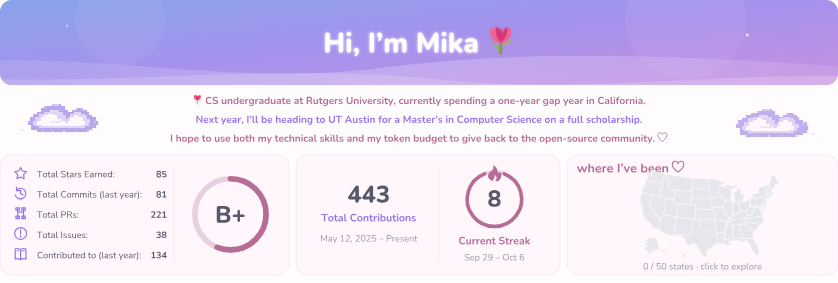
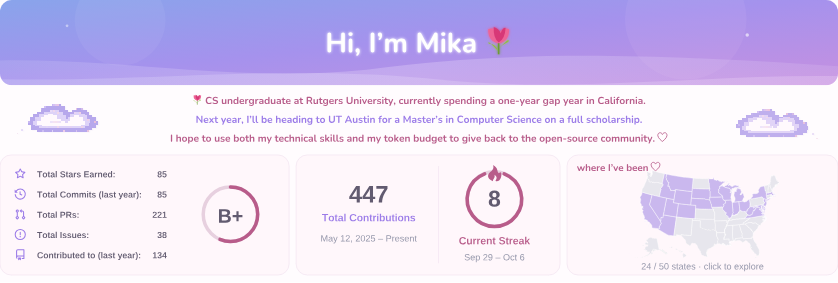
Record deployed profile and travel journal checks

diff --git a/docs/VALIDATION.md b/docs/VALIDATION.md
@@ -17,3 +17,5 @@ Screenshots: [P1 fixture](screenshots/p1-fixture.png), [P2 fixture](screenshots/
 `node scripts/check-live.mjs` checks the public GitHub README picture sources in light, dark and reduced-motion modes, 1200×404 natural image dimensions, the whole-image link to Pages, live visit counts, startup errors, fresh statistics and SVG Content-Type. The separate [compatibility page](compatibility-probe.md) exercises embedded WebP, clipping, blur and animated photo layers through GitHub’s image renderer.
 
 The public checks use an unauthenticated Chromium session. Safari and Firefox have not been separately exercised.
+
+The deployed build at `76738cc` passed [GitHub Actions run 37463751707](https://github.com/mikamikasuki/mikamika/actions/runs/37463751707). Public checks passed for light/dark/reduced-motion image sources, the Pages link, 24 states plus DC and fresh statistics. The Camo-served production image contains the 39px rank ring and no left-card divider. [P1 production](screenshots/p1-production.png) is captured from the actual GitHub README. [P2 GitHub fixture](screenshots/p2-github-fixture.png) is captured from the compatibility page using synthetic photographs; its idle/bubble snapshots differed in 110,914 channel bytes.
